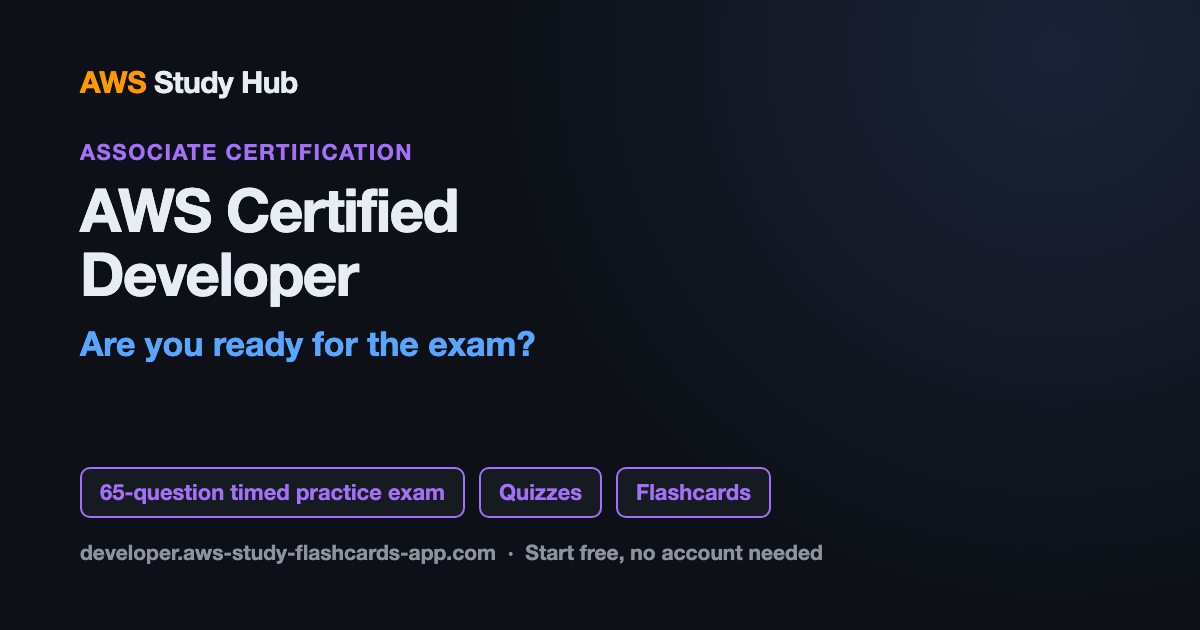
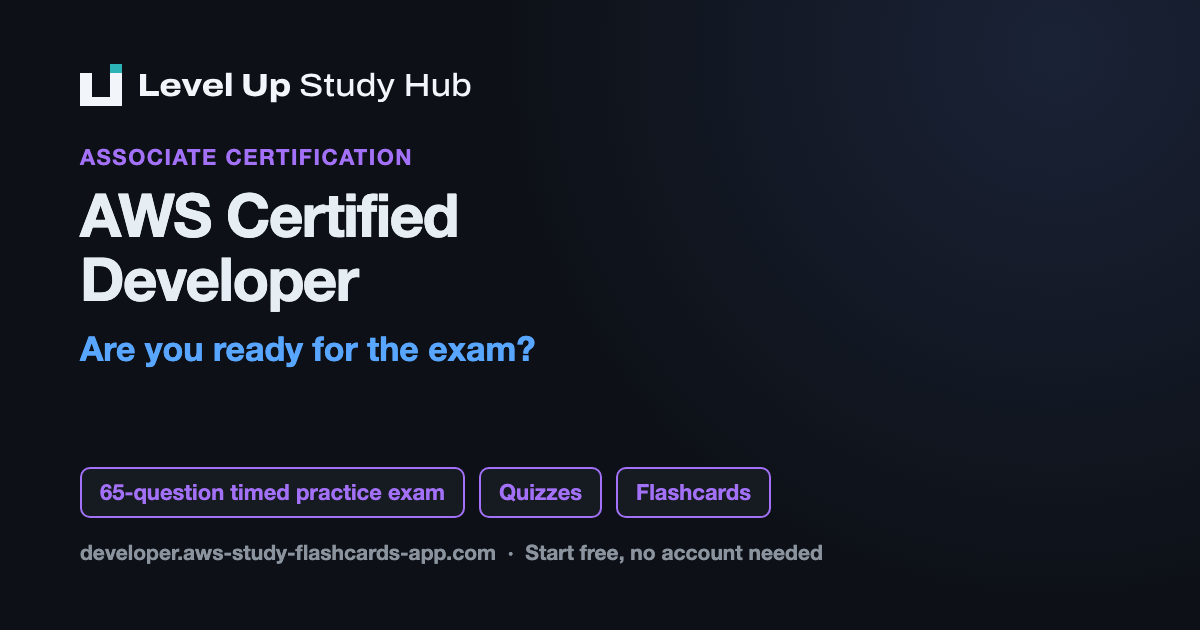
Link previews show the Level Up Study Hub lockup
build-share-images.mjs now draws the brand line with the lockup from
public/brand/ instead of "AWS Study Hub" with AWS in orange, and also
builds the hub's own og-image.png (before, that one was made by hand).
The hub picture keeps its words; its lockup is the largest thing on it.

og:image URLs get ?v=2 so LinkedIn, X and Slack fetch the new picture
instead of their cached copy. CloudFront ignores the query string.

diff --git a/aws-study-homepage/index.html b/aws-study-homepage/index.html
@@ -23,7 +23,7 @@
     <meta property="og:type" content="website" />
     <meta property="og:url" content="https://aws-study-flashcards-app.com/" />
     <meta property="og:site_name" content="Level Up Study Hub" />
-    <meta property="og:image" content="https://aws-study-flashcards-app.com/og-image.png" />
+    <meta property="og:image" content="https://aws-study-flashcards-app.com/og-image.png?v=2" />
     <meta property="og:image:width" content="1200" />
     <meta property="og:image:height" content="630" />
     <meta property="og:image:alt" content="Level Up Study Hub: practice exams, flashcards and coding courses for AWS" />
@@ -32,7 +32,7 @@
     <meta name="twitter:card" content="summary_large_image" />
     <meta name="twitter:title" content="Level Up Study Hub: Practice Exams, Flashcards and Coding Courses for AWS" />
     <meta name="twitter:description" content="Timed exam simulators, quiz games and flashcards for four AWS certifications, plus hands-on coding courses. Start free, no account needed." />
-    <meta name="twitter:image" content="https://aws-study-flashcards-app.com/og-image.png" />
+    <meta name="twitter:image" content="https://aws-study-flashcards-app.com/og-image.png?v=2" />
 
     <!-- Level Up Study Hub icons. ?v=2 because the old AWS-orange icons were cached for a year. -->
     <link rel="icon" href="/favicon.ico?v=2" sizes="48x48" />

diff --git a/aws-saa-study-game/index.html b/aws-saa-study-game/index.html
@@ -20,7 +20,7 @@
     <meta property="og:type" content="website" />
     <meta property="og:url" content="https://architect.aws-study-flashcards-app.com/" />
     <meta property="og:site_name" content="Level Up Study Hub" />
-    <meta property="og:image" content="https://aws-study-flashcards-app.com/og/solutions-architect-associate.png" />
+    <meta property="og:image" content="https://aws-study-flashcards-app.com/og/solutions-architect-associate.png?v=2" />
     <meta property="og:image:width" content="1200" />
     <meta property="og:image:height" content="630" />
     <meta name="twitter:card" content="summary_large_image" />

diff --git a/aws-dva-study-game/index.html b/aws-dva-study-game/index.html
@@ -20,7 +20,7 @@
     <meta property="og:type" content="website" />
     <meta property="og:url" content="https://developer.aws-study-flashcards-app.com/" />
     <meta property="og:site_name" content="Level Up Study Hub" />
-    <meta property="og:image" content="https://aws-study-flashcards-app.com/og/developer-associate.png" />
+    <meta property="og:image" content="https://aws-study-flashcards-app.com/og/developer-associate.png?v=2" />
     <meta property="og:image:width" content="1200" />
     <meta property="og:image:height" content="630" />
     <meta name="twitter:card" content="summary_large_image" />

diff --git a/aws-cloud-practitioner-game/index.html b/aws-cloud-practitioner-game/index.html
@@ -20,7 +20,7 @@
     <meta property="og:type" content="website" />
     <meta property="og:url" content="https://cloud.aws-study-flashcards-app.com/" />
     <meta property="og:site_name" content="Level Up Study Hub" />
-    <meta property="og:image" content="https://aws-study-flashcards-app.com/og/cloud-practitioner.png" />
+    <meta property="og:image" content="https://aws-study-flashcards-app.com/og/cloud-practitioner.png?v=2" />
     <meta property="og:image:width" content="1200" />
     <meta property="og:image:height" content="630" />
     <meta name="twitter:card" content="summary_large_image" />

diff --git a/aws-ai-study-game/index.html b/aws-ai-study-game/index.html
@@ -20,7 +20,7 @@
     <meta property="og:type" content="website" />
     <meta property="og:url" content="https://ai.aws-study-flashcards-app.com/" />
     <meta property="og:site_name" content="Level Up Study Hub" />
-    <meta property="og:image" content="https://aws-study-flashcards-app.com/og/ai-practitioner.png" />
+    <meta property="og:image" content="https://aws-study-flashcards-app.com/og/ai-practitioner.png?v=2" />
     <meta property="og:image:width" content="1200" />
     <meta property="og:image:height" content="630" />
     <meta name="twitter:card" content="summary_large_image" />

diff --git a/aws-coding-courses/index.html b/aws-coding-courses/index.html
@@ -17,7 +17,7 @@
     <meta property="og:title" content="%COURSE_TITLE%" />
     <meta property="og:description" content="%COURSE_DESCRIPTION%" />
     <meta property="og:url" content="%COURSE_URL%" />
-    <meta property="og:image" content="https://aws-study-flashcards-app.com/og/%COURSE_ID%.png" />
+    <meta property="og:image" content="https://aws-study-flashcards-app.com/og/%COURSE_ID%.png?v=2" />
     <meta property="og:image:width" content="1200" />
     <meta property="og:image:height" content="630" />
     <meta name="twitter:card" content="summary_large_image" />
